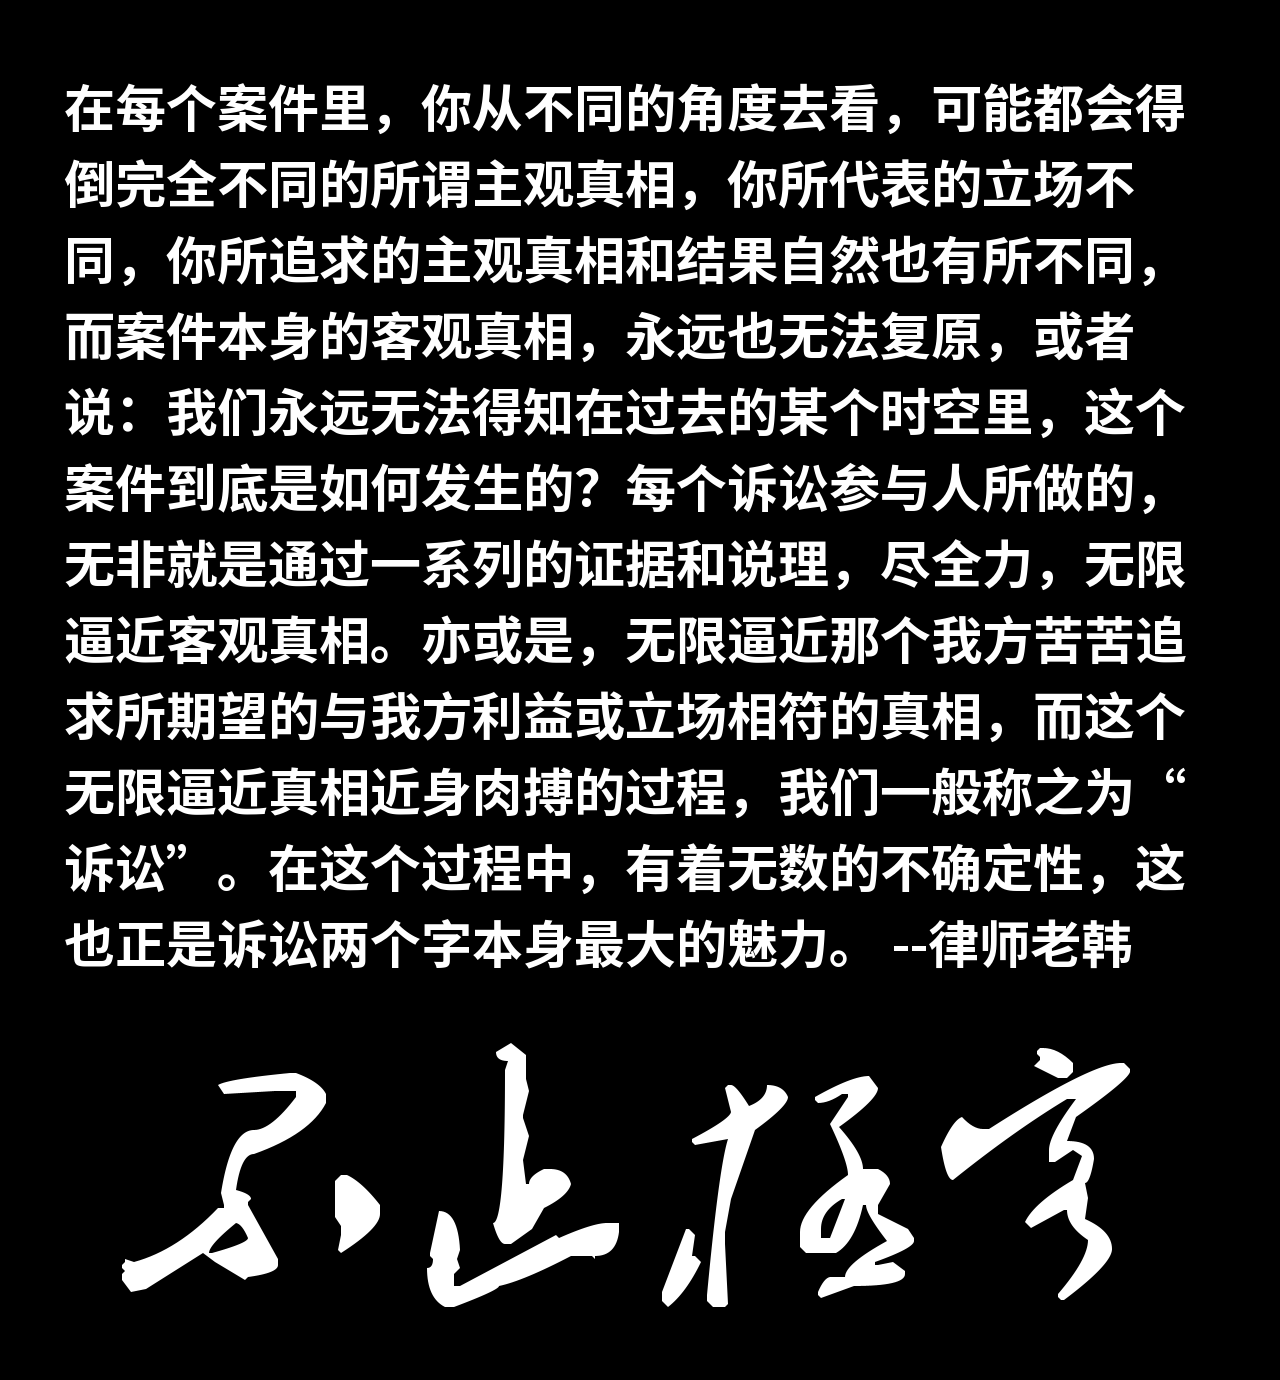
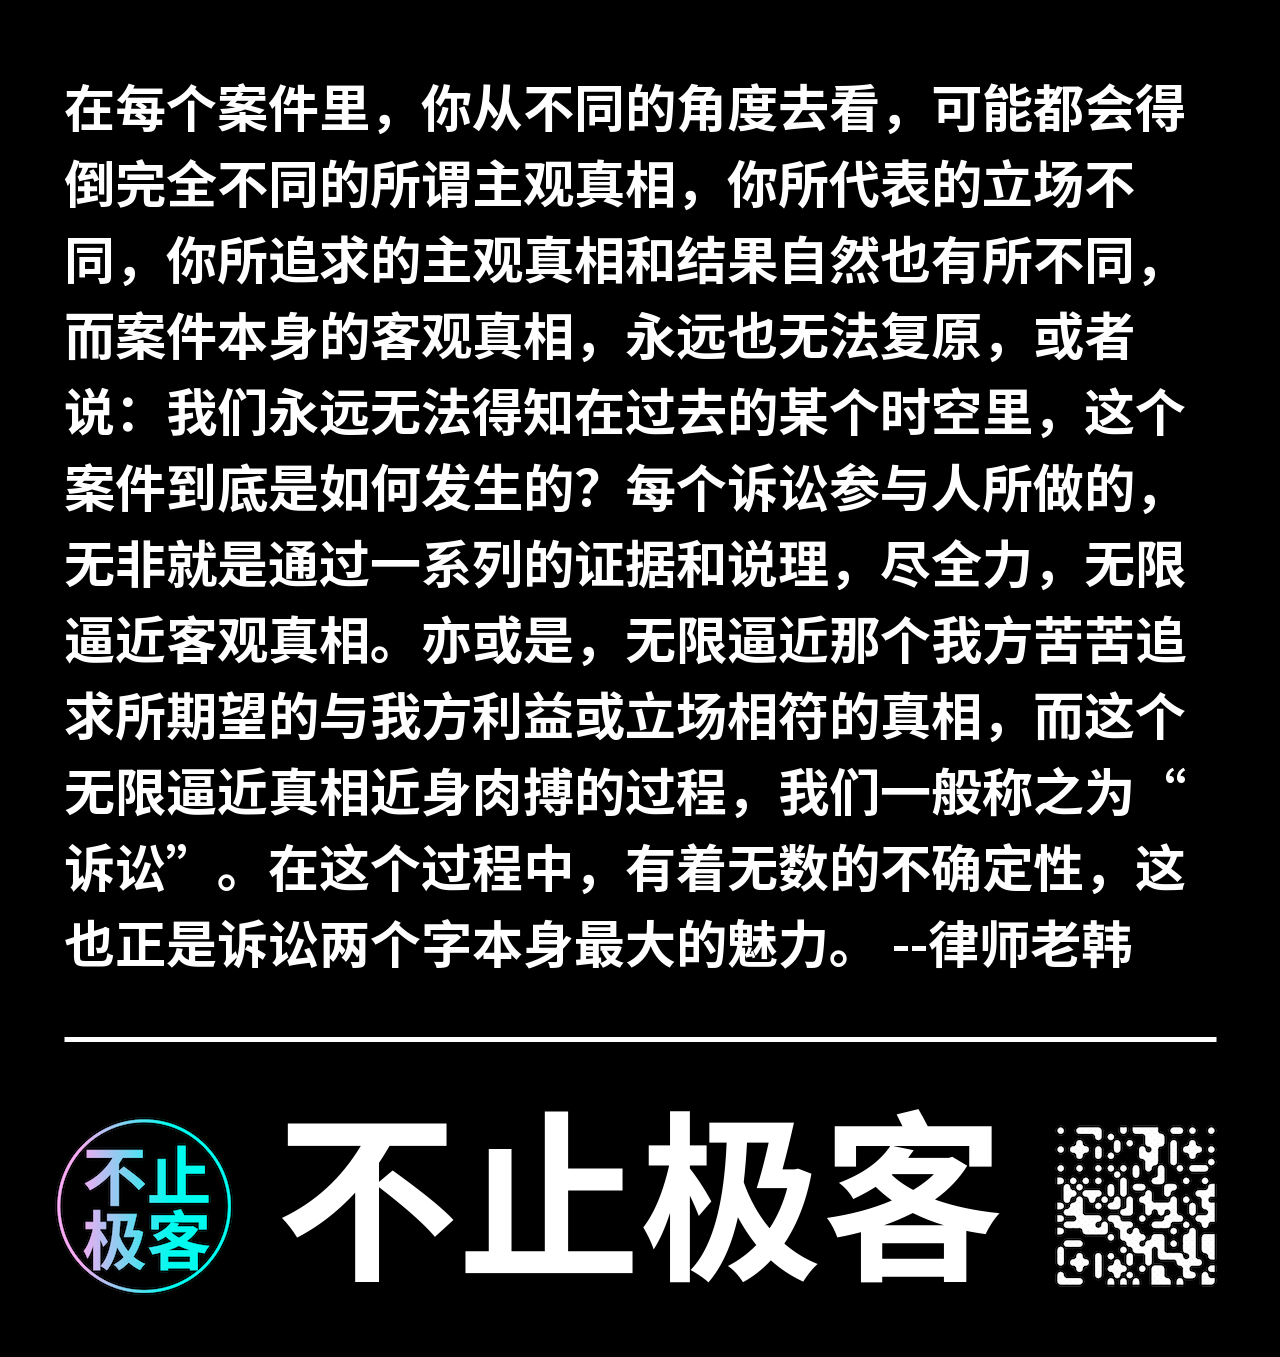
2023-08-03 09:36:34 AutoCommit.sh by Darian

Changed region(s): [[0.0312, 0.0619, 0.9375, 0.7119], [0.0312, 0.7428, 0.9688, 0.9595]]

diff --git a/come-tips-demo/src/main/java/com/darian/ownposter/OwnerPosterUtils.java b/come-tips-demo/src/main/java/com/darian/ownposter/OwnerPosterUtils.java
@@ -25,6 +25,10 @@ import java.util.Objects;
 
 public class OwnerPosterUtils {
 
+    private static String RESOURCES_PATH = System.getProperty("user.dir")
+            + File.separator + "src"
+            + File.separator + "main"
+            + File.separator + "resources";
 
     private static Logger LOGGER = LoggerFactory.getLogger(OwnerPosterUtils.class);
 
@@ -66,6 +70,8 @@ public class OwnerPosterUtils {
             LOGGER.debug(String.format("[bufferImage][imageWidth][%s][imageHeight][%s]", imageWidth, imageHeight));
 
             int fontSize = imageWidth / 25;
+            int wenZiWeight = imageWidth * 90 / 100;
+
             // 字体和字体大小
             font = font.deriveFont(Font.PLAIN, fontSize);
 
@@ -96,8 +102,6 @@ public class OwnerPosterUtils {
 
             String otherMingYan = mingYan;
             while (true) {
-                int wenZiWeight = imageWidth * 90 / 100;
-
                 int spilt = 0;
                 for (int i = 1; i <= otherMingYan.length(); i++) {
 
@@ -148,9 +152,15 @@ public class OwnerPosterUtils {
                 y = y + fontSize * 3 / 2;
             }
 
+            // 画一条分割线
+            Stroke dash = new BasicStroke(5.0f, BasicStroke.CAP_BUTT, BasicStroke.JOIN_ROUND, 3.5f, null, 0f);
+            fontGraphics.setStroke(dash);
+            fontGraphics.drawLine((imageWidth - wenZiWeight) / 2, y, wenZiWeight + ((imageWidth - wenZiWeight) / 2), y);
 
-            fontSize = imageWidth / 5;
-            font = Font.createFont(Font.TRUETYPE_FONT, new ClassPathResource(maoFontFileClassPath).getInputStream());
+            y = y + fontSize * 3 / 2;
+
+            fontSize = imageWidth / 7;
+//            font = Font.createFont(Font.TRUETYPE_FONT, new ClassPathResource(maoFontFileClassPath).getInputStream());
             // 字体和字体大小
             font = font.deriveFont(Font.PLAIN, fontSize);
             fontGraphics.setFont(font);
@@ -171,6 +181,33 @@ public class OwnerPosterUtils {
 //                    310 - Toolkit.getDefaultToolkit().getFontMetrics(font).stringWidth(footer) / 2,
 //                    y);
 //            y = y + 22;
+
+
+            // 写商标log
+            String logImgPath = "static"
+                    + File.separator + "domain"
+                    + File.separator + "into"
+                    + File.separator + "NotGeekAvatarSmall.png";
+
+            BufferedImage logBufferedImage = ImageIO.read(new ClassPathResource(logImgPath).getInputStream());
+            fontGraphics.drawImage(logBufferedImage,
+                    imageWidth / 24,
+                    y - logBufferedImage.getHeight() - fontSize / 3,
+                    logBufferedImage.getWidth(),
+                    logBufferedImage.getHeight(),
+                    null);
+
+            String qrCodeImgPath = "static"
+                    + File.separator + "domain"
+                    + File.separator + "into"
+                    + File.separator + "notgeekCNQRCode.png";
+            BufferedImage qrCodeBufferedImage = ImageIO.read(new ClassPathResource(qrCodeImgPath).getInputStream());
+            fontGraphics.drawImage(qrCodeBufferedImage,
+                     imageWidth - imageWidth / 24 - qrCodeBufferedImage.getWidth(),
+                    y - qrCodeBufferedImage.getHeight() - fontSize / 3,
+                    qrCodeBufferedImage.getWidth(),
+                    qrCodeBufferedImage.getHeight(),
+                    null);
 
             fontGraphics.dispose();
 
@@ -215,10 +252,7 @@ public class OwnerPosterUtils {
         mingYan = "在每个案件里，你从不同的角度去看，可能都会得倒完全不同的所谓主观真相，你所代表的立场不同，你所追求的主观真相和结果自然也有所不同，而案件本身的客观真相，永远也无法复原，或者说：我们永远无法得知在过去的某个时空里，这个案件到底是如何发生的？每个诉讼参与人所做的，无非就是通过一系列的证据和说理，尽全力，无限逼近客观真相。亦或是，无限逼近那个我方苦苦追求所期望的与我方利益或立场相符的真相，而这个无限逼近真相近身肉搏的过程，我们一般称之为“诉讼”。在这个过程中，有着无数的不确定性，这也正是诉讼两个字本身最大的魅力。 --律师老韩";
 
 
-        String domainStaticPath = System.getProperty("user.dir")
-                + File.separator + "src"
-                + File.separator + "main"
-                + File.separator + "resources"
+        String domainStaticPath = RESOURCES_PATH
                 + File.separator + "static"
                 + File.separator + "domain";
 
